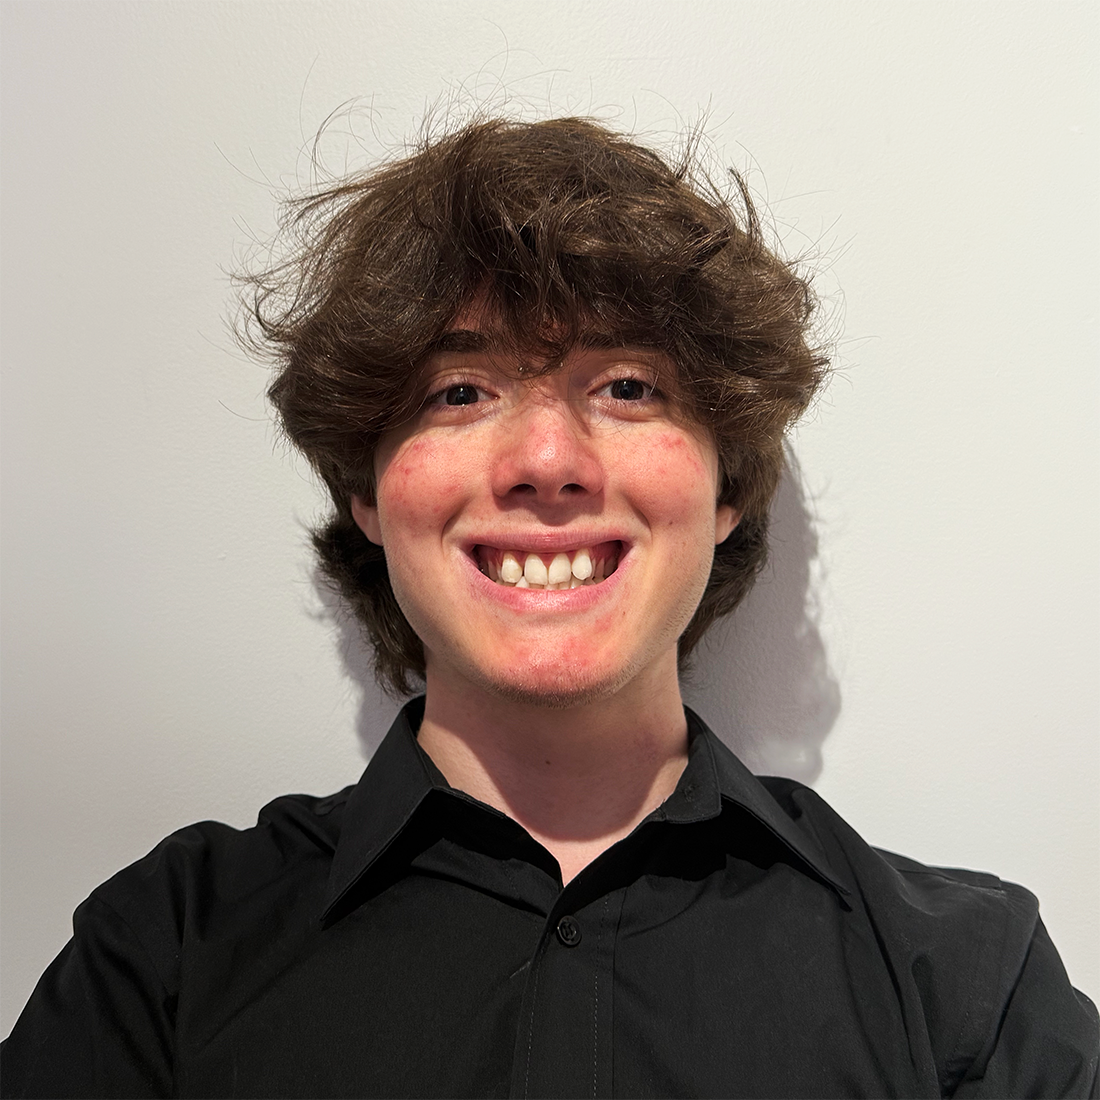
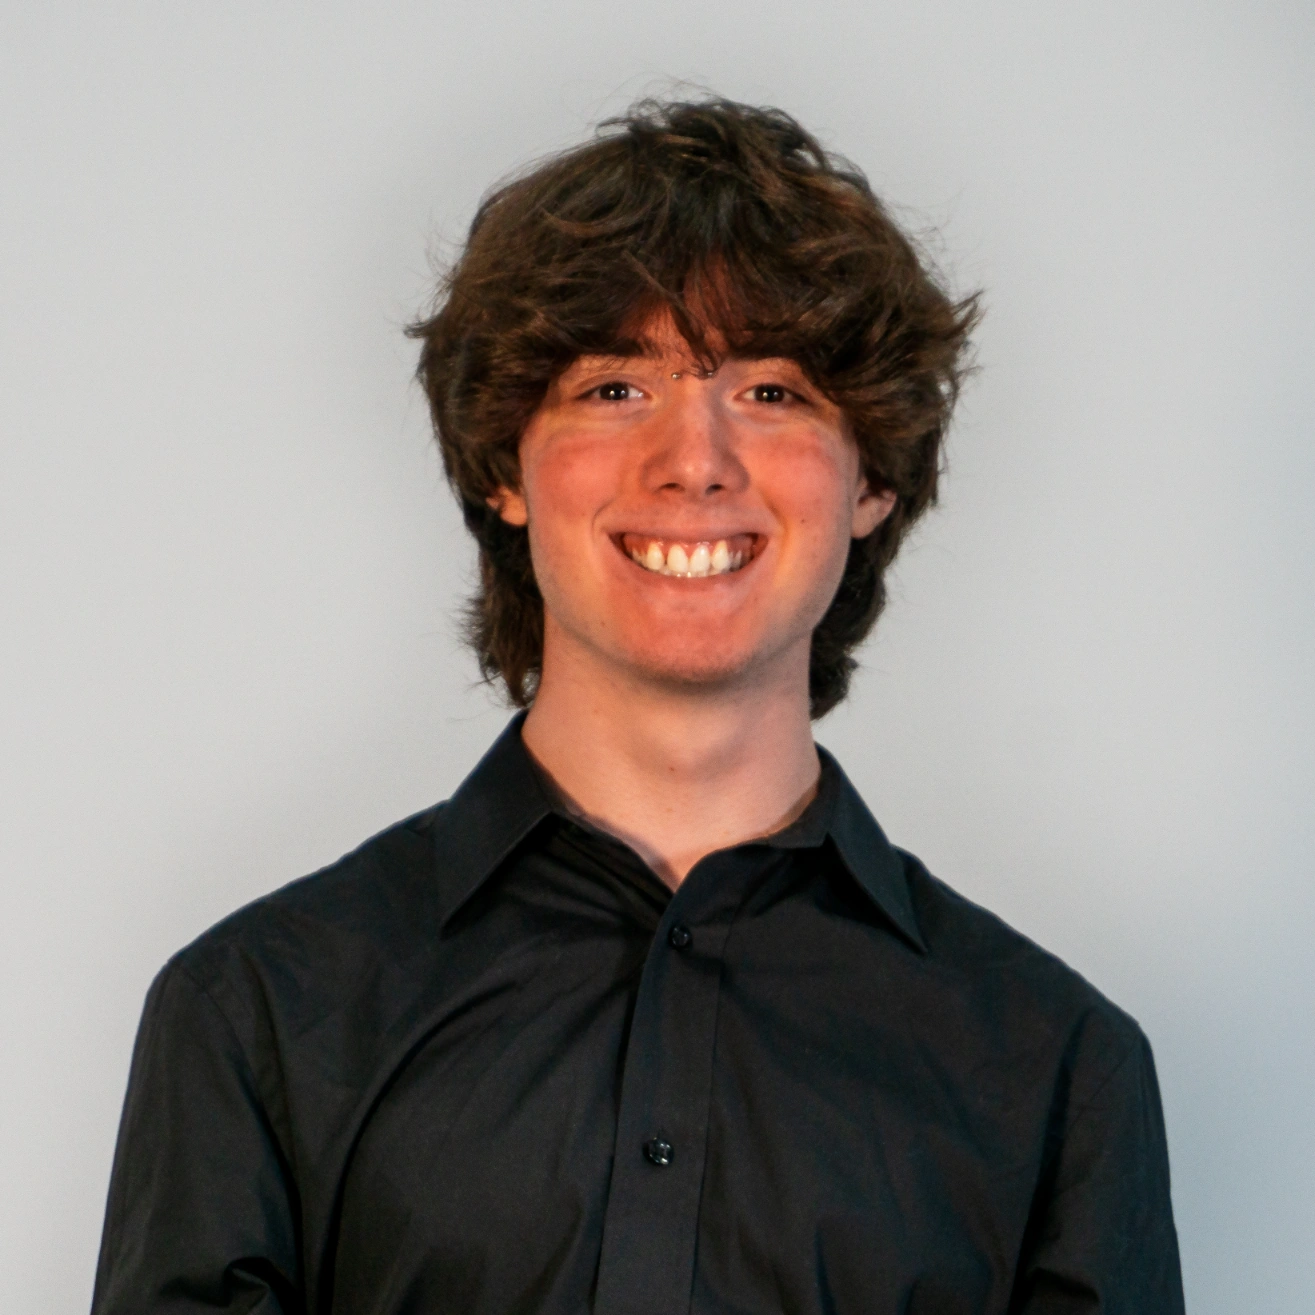
+ SEO, accessibilité, change photo apropos
- loading lazy sur les img qui sont pas visibles directement
- meta desc, bots
- correction desc à propos + photo upd
- objectif de carrière

diff --git a/index.html b/index.html
@@ -4,6 +4,9 @@
 <head>
     <meta charset="UTF-8" />
     <meta name="viewport" content="width=device-width, initial-scale=1.0" />
+    <meta name="description"
+        content="Ryan Dufault, passionné d'audiovisuel, spécialisé en montage vidéo, effets visuels et traitement du son. À la recherche d'une équipe créative en multimédia.">
+    <meta name="robots" content="index, follow">
     <title>Ryan Dufault</title>
     <link rel="icon" type="image/x-icon" href="/assets/favicon.svg">
     <link rel="stylesheet" href="/styles/styles.css" />
@@ -79,7 +82,8 @@
                 <!-- ==============================  1 PROJET  ====================================== -->
                 <div class="projet" v-show="projetFiltre === 'Video' || projetFiltre === null">
                     <div class="projet-thumbnail-container">
-                        <img class="projet-thumbnail projetFleur" src="./assets/fleur/thumbnail.webp">
+                        <img class="projet-thumbnail projetFleur" src="./assets/fleur/thumbnail.webp"
+                            alt="Miniature du projet Fleur" loading="lazy">
                     </div>
                     <p class="projet-titre projetFleur">•Fleur</p>
                     <p class="projet-type">Type•Vidéo</p>
@@ -91,7 +95,8 @@
                 <!-- ==============================  2 PROJET  ====================================== -->
                 <div class="projet" v-show="projetFiltre === 'Video' || projetFiltre === null">
                     <div class="projet-thumbnail-container">
-                        <img class="projet-thumbnail projetBirden" src="./assets/birden/birden1.webp">
+                        <img class="projet-thumbnail projetBirden" src="./assets/birden/birden1.webp"
+                            alt="Miniature du projet Birden" loading="lazy">
                     </div>
                     <p class="projet-titre projetBirden">•Birden</p>
                     <p class="projet-type">Type•Vidéo</p>
@@ -102,7 +107,8 @@
                 <!-- ==============================  3 PROJET  ====================================== -->
                 <div class="projet" v-show="projetFiltre === 'Video' || projetFiltre === null">
                     <div class="projet-thumbnail-container">
-                        <img class="projet-thumbnail projetLecorps" src="./assets/lecorps/lecorps1.webp">
+                        <img class="projet-thumbnail projetLecorps" src="./assets/lecorps/lecorps1.webp"
+                            alt="Miniature du projet Le Corps" loading="lazy">
                     </div>
                     <p class="projet-titre projetLecorps">•Le Corps</p>
                     <p class="projet-type">Type•Vidéo</p>
@@ -115,7 +121,8 @@
                 <div class="projet" v-show="projetFiltre === 'Web' || projetFiltre === null">
                     <div class="projet-thumbnail-container">
                         <img class="projet-thumbnail projetMaisonhantee"
-                            src="./assets/maisonhantee/maisonhanteethumbnail.webp">
+                            src="./assets/maisonhantee/maisonhanteethumbnail.webp"
+                            alt="Miniature du projet Maison Hantée" loading="lazy">
                     </div>
                     <p class="projet-titre projetMaisonhantee">•Maison Hantée</p>
                     <p class="projet-type">Type•Web</p>
@@ -127,7 +134,8 @@
                 <div class="projet" v-show="projetFiltre === 'Design' || projetFiltre === null">
                     <div class="projet-thumbnail-container">
                         <img class="projet-thumbnail projetAutoportrait"
-                            src="./assets/autoportrait/autoportraitthumbnail.webp">
+                            src="./assets/autoportrait/autoportraitthumbnail.webp"
+                            alt="Miniature du projet Autoportrait" loading="lazy">
                     </div>
                     <p class="projet-titre projetAutoportrait">•Autoportrait</p>
                     <p class="projet-type">Type•Design</p>
@@ -138,7 +146,8 @@
                 <!-- ==============================  6 PROJET  ====================================== -->
                 <div class="projet" v-show="projetFiltre === 'Design' || projetFiltre === null">
                     <div class="projet-thumbnail-container projetIncisive">
-                        <img class="projet-thumbnail" src="./assets/incisive/incisivethumbnail.webp">
+                        <img class="projet-thumbnail" src="./assets/incisive/incisivethumbnail.webp"
+                            alt="Miniature du projet Incisive" loading="lazy">
                     </div>
                     <p class="projet-titre projetIncisive">•Incisive</p>
                     <p class="projet-type">Type•Design Graphique</p>
@@ -166,8 +175,8 @@
                 <img src="./assets/logiciels/figma.webp" alt="Figma / Design graphique"
                     title="Figma / Design graphique"> <img src="./assets/logiciels/reaper.webp" alt="Reaper / Audio"
                     title="Reaper / Audio">
-                <img src="./assets/logiciels/fl.webp" alt="FL Studio / Audio" title="FL Studio / Audio"> <img
-                    src="./assets/logiciels/cubase.webp" alt="Cubase / Audio" title="Cubase / Audio">
+                <img src="./assets/logiciels/fl.webp" alt="FL Studio / Audio" title="FL Studio / Audio">
+                <img src="./assets/logiciels/cubase.webp" alt="Cubase / Audio" title="Cubase / Audio">
                 <img src="./assets/logiciels/ps.webp" alt="Adobe Photoshop / Design graphique"
                     title="Adobe Photoshop / Design graphique"> <img src="./assets/logiciels/ae.webp"
                     alt="Adobe After Effects / Vidéo" title="Adobe After Effects / Vidéo">
@@ -196,7 +205,8 @@
             <div class="apropos-grid">
                 <div class="apropos">
                     <div class="apropos-photo-container">
-                        <img class="apropos-photo" src="./assets/apropos.webp">
+                        <img class="apropos-photo" src="./assets/apropos.webp" alt="Photo de Ryan Dufault"
+                            loading="lazy">
                     </div>
                     <p class="coordonnees">Basé à St-Eustache, QC<br>
                         438-379-0330<br>
@@ -204,8 +214,10 @@
                     <p class="coordonnees2">Au plaisir de travailler avec vous :)</p>
                     <p class="description">Allo!<br>Moi c'est Ryan, finissant en Techniques d'intégration
                         multimédia au Collège Montmorency. Je suis passionné par l'audiovisuel, particulièrement
-                        au montage vidéo, aux effets visuels et au traitement du son. Je cherche présentement à me joindre à une équipe créative
-                        dans le domaine du multimédia.</p>
+                        le montage vidéo, les effets visuels et le traitement du son. Je cherche présentement à me
+                        joindre à une équipe créative
+                        dans le domaine du multimédia.<br><br>Je souhaite occuper un poste de monteur vidéo dans le
+                        secteur audiovisuel où je pourrai valoriser mon expertise en postproduction d'image et son.</p>
                     <div class="apropos-svg-container">
                         <svg viewBox="0 0 444 154" fill="none" xmlns="http://www.w3.org/2000/svg" class="apropos-svg">
                             <path

diff --git a/projets/fleur.html b/projets/fleur.html
@@ -76,7 +76,7 @@
     <section class="galerie-wrapper">
         <div class="image1">
             <img src="../assets/fleur/fleur1.webp" @click="selectImg('../assets/fleur/fleur1.webp')"
-                alt="Miniature du projet Fleur">
+                alt="Miniature du projet Fleur" loading="lazy">
             <!-- au clic, call la méthode qui récup source de l'img -->
         </div>
         <div class="overlay" :class="{ active: image }" @click="closeOverlay">
@@ -85,11 +85,11 @@
         </div>
         <div class="image2">
             <img src="../assets/fleur/fleur2.webp" @click="selectImg('../assets/fleur/fleur2.webp')"
-                alt="Image statique du projet Fleur">
+                alt="Image statique du projet Fleur" loading="lazy">
         </div>
         <div class="image3456">
             <img class="image3456-1" src="../assets/fleur/fleur3.webp" @click="selectImg('../assets/fleur/fleur3.webp')"
-                alt="Image statique du projet Fleur">
+                alt="Image statique du projet Fleur" loading="lazy">
             <video class="video1" autoplay loop muted playsinline aria-hidden="true" loading="lazy"
                 poster="../assets/fleur/fleur4.webp" @click="selectImg('../assets/fleur/fleur4.webp')"
                 alt="Court extrait vidéo du projet Fleur">
@@ -101,25 +101,28 @@
                 <source src="../assets/fleur/fleur2.webm" type="video/webm">
             </video>
             <img class="image3456-4" src="../assets/fleur/fleur6.webp" @click="selectImg('../assets/fleur/fleur6.webp')"
-                alt="Image statique du projet Fleur">
+                alt="Image statique du projet Fleur" loading="lazy">
         </div>
         <section class="processus-container">
             <h3>Processus de création</h3>
             <div class="etape1">
-                <p >1ère étape : Modélisation & animation</p>
-                <p>Génération d'herbe avec les pinceaux Maya, création des pétales du pissenlit avec XGen, <br>animation de vent sur l'ensemble de la scène réalisée avec une déformation de vague (wave),<br> texturation avec du bruit (noise) et des dégradés</p>
+                <p>1ère étape : Modélisation & animation</p>
+                <p>Génération d'herbe avec les pinceaux Maya, création des pétales du pissenlit avec XGen, <br>animation
+                    de vent sur l'ensemble de la scène réalisée avec une déformation de vague (wave),<br> texturation
+                    avec du bruit (noise) et des dégradés</p>
                 <img src="../assets/fleur/dm1.webp" @click="selectImg('../assets/fleur/dm1.webp')"
-                alt="Image du processus de création, étape modélisation">
+                    alt="Image du processus de création, étape modélisation">
                 <img src="../assets/fleur/dm2.webp" @click="selectImg('../assets/fleur/dm2.webp')"
-                alt="Image du processus de création, étape modélisation">
+                    alt="Image du processus de création, étape modélisation">
             </div>
             <div class="etape2">
                 <p>2ème étape : Audio</p>
-                <p>Utilisation de synthétiseurs.<br> Effets de réverbérations, écho, égalisation, manipulation stéréo (+ mastering)</p>
+                <p>Utilisation de synthétiseurs.<br> Effets de réverbérations, écho, égalisation, manipulation stéréo (+
+                    mastering)</p>
                 <img src="../assets/fleur/dm3.webp" @click="selectImg('../assets/fleur/dm3.webp')"
-                alt="Image du processus de création, étape audio">
+                    alt="Image du processus de création, étape audio">
                 <img src="../assets/fleur/dm4.webp" @click="selectImg('../assets/fleur/dm4.webp')"
-                alt="Image du processus de création, étape audio">
+                    alt="Image du processus de création, étape audio">
             </div>
             <div class="etape3">
                 <p>3ème étape : Post-production</p>
@@ -130,9 +133,9 @@
                     - Glow (pour les lucioles)<br>
                     - Tracking (pour le soleil)<br>
                     - Encodage en Apple ProRes 4444 Rec.709 2.4</p>
-                    <img src="../assets/fleur/dm5.webp" @click="selectImg('../assets/fleur/dm5.webp')"
+                <img src="../assets/fleur/dm5.webp" @click="selectImg('../assets/fleur/dm5.webp')"
                     alt="Image du processus de création, étape audio">
-                    <img src="../assets/fleur/dm6.webp" @click="selectImg('../assets/fleur/dm6.webp')"
+                <img src="../assets/fleur/dm6.webp" @click="selectImg('../assets/fleur/dm6.webp')"
                     alt="Image du processus de création, étape audio">
             </div>
         </section>

diff --git a/projets/maison_hantee.html b/projets/maison_hantee.html
@@ -72,8 +72,9 @@
   <div class="spacing"></div>
   <section class="galerie-wrapper">
     <div class="image1">
-      <img src="../assets/maisonhantee/maisonhantee1.webp" @click="selectImg('../assets/maisonhantee/maisonhantee1.webp')"
-        alt="Image statique du projet Maison Hantée">
+      <img src="../assets/maisonhantee/maisonhantee1.webp"
+        @click="selectImg('../assets/maisonhantee/maisonhantee1.webp')" alt="Image statique du projet Maison Hantée"
+        loading="lazy">
       <!-- au clic, call la méthode qui récup source de l'img -->
     </div>
     <div class="overlay" :class="{ active: image }" @click="closeOverlay">
@@ -81,12 +82,14 @@
       <img :src="image"> <!-- affiche image sélectionnée -->
     </div>
     <div class="image2">
-      <img src="../assets/maisonhantee/maisonhantee2.webp" @click="selectImg('../assets/maisonhantee/maisonhantee2.webp')"
-        alt="Image statique du projet Maison Hantée">
+      <img src="../assets/maisonhantee/maisonhantee2.webp"
+        @click="selectImg('../assets/maisonhantee/maisonhantee2.webp')" alt="Image statique du projet Maison Hantée"
+        loading="lazy">
     </div>
     <div class="image3456">
       <img class="image3456-1" src="../assets/maisonhantee/maisonhantee3.webp"
-        alt="Image statique du projet Maison Hantée" @click="selectImg('../assets/maisonhantee/maisonhantee3.webp')">
+        alt="Image statique du projet Maison Hantée" @click="selectImg('../assets/maisonhantee/maisonhantee3.webp')"
+        loading="lazy">
       <video class="video1" autoplay loop muted playsinline aria-hidden="true" loading="lazy"
         poster="../assets/maisonhantee/maisonhantee4.png" @click="selectImg('../assets/maisonhantee/maisonhantee4.png')"
         alt="Court extrait vidéo du projet Maison Hantée">
@@ -98,7 +101,8 @@
         <source src="../assets/maisonhantee/maisonhantee5.webm" type="video/webm">
       </video>
       <img class="image3456-4" src="../assets/maisonhantee/maisonhantee6.webp"
-        alt="Image statique du projet Maison Hantée" @click="selectImg('../assets/maisonhantee/maisonhantee6.webp')">
+        alt="Image statique du projet Maison Hantée" @click="selectImg('../assets/maisonhantee/maisonhantee6.webp')"
+        loading="lazy">
     </div>
   </section>
   <div class="spacing"></div>

diff --git a/projets/incisive.html b/projets/incisive.html
@@ -71,7 +71,8 @@
   <div class="spacing"></div>
   <section class="galerie-wrapper">
     <div class="image1">
-      <img src="../assets/incisive/incisive1.webp" @click="selectImg('../assets/incisive/incisive1.webp')">
+      <img src="../assets/incisive/incisive1.webp" @click="selectImg('../assets/incisive/incisive1.webp')"
+        loading="lazy">
       <!-- au clic, call la méthode qui récup source de l'img -->
     </div>
     <div class="overlay" :class="{ active: image }" @click="closeOverlay">
@@ -79,17 +80,18 @@
       <img :src="image"> <!-- affiche image sélectionnée -->
     </div>
     <div class="image2">
-      <img src="../assets/incisive/incisive2.webp" @click="selectImg('../assets/incisive/incisive2.webp')">
+      <img src="../assets/incisive/incisive2.webp" @click="selectImg('../assets/incisive/incisive2.webp')"
+        loading="lazy">
     </div>
     <div class="image3456">
       <img class="image3456-1" src="../assets/incisive/incisive3.webp" alt="Image tirée du projet Incisive"
-        @click="selectImg('../assets/incisive/incisive3.webp')">
-      <img class="video1" src="../assets/incisive/incisive4.webp" @click="selectImg('../assets/incisive/incisive4.webp')"
-        alt="Image tirée du projet Incisive">
-      <img class="video2" src="../assets/incisive/incisive5.webp" @click="selectImg('../assets/incisive/incisive5.webp')"
-        alt="Image tirée du projet Incisive">
+        @click="selectImg('../assets/incisive/incisive3.webp')" loading="lazy">
+      <img class="video1" src="../assets/incisive/incisive4.webp"
+        @click="selectImg('../assets/incisive/incisive4.webp')" alt="Image tirée du projet Incisive" loading="lazy">
+      <img class="video2" src="../assets/incisive/incisive5.webp"
+        @click="selectImg('../assets/incisive/incisive5.webp')" alt="Image tirée du projet Incisive" loading="lazy">
       <img class="image3456-4" src="../assets/incisive/incisive6.webp" alt="Image tirée du projet Incisive"
-        @click="selectImg('../assets/incisive/incisive6.webp')">
+        @click="selectImg('../assets/incisive/incisive6.webp')" loading="lazy">
     </div>
   </section>
   <div class="spacing"></div>

diff --git a/projets/le_corps.html b/projets/le_corps.html
@@ -76,7 +76,7 @@
   <section class="galerie-wrapper">
     <div class="image1">
       <img src="../assets/lecorps/lecorps1.webp" @click="selectImg('../assets/lecorps/lecorps1.webp')"
-        alt="Image statique du projet Le Corps">
+        alt="Image statique du projet Le Corps" loading="lazy">
       <!-- au clic, call la méthode qui récup source de l'img -->
     </div>
     <div class="overlay" :class="{ active: image }" @click="closeOverlay">
@@ -85,11 +85,11 @@
     </div>
     <div class="image2">
       <img src="../assets/lecorps/lecorps2.webp" @click="selectImg('../assets/lecorps/lecorps2.webp')"
-        alt="Image statique du projet Le Corps">
+        alt="Image statique du projet Le Corps" loading="lazy">
     </div>
     <div class="image3456">
-      <img class="image3456-1" src="../assets/lecorps/lecorps3.webp" @click="selectImg('../assets/lecorps/lecorps3.webp')"
-        alt="Image statique du projet Le Corps">
+      <img class="image3456-1" src="../assets/lecorps/lecorps3.webp"
+        @click="selectImg('../assets/lecorps/lecorps3.webp')" alt="Image statique du projet Le Corps" loading="lazy">
       <video class="video1" autoplay loop muted playsinline aria-hidden="true" loading="lazy"
         poster="../assets/lecorps/lecorps4.webp" @click="selectImg('../assets/lecorps/lecorps4.webp')"
         alt="Court extrait vidéo du projet Le Corps">
@@ -100,8 +100,8 @@
         alt="Court extrait vidéo du projet Le Corps">
         <source src="../assets/lecorps/lecorps5.webm" type="video/webm">
       </video>
-      <img class="image3456-4" src="../assets/lecorps/lecorps6.webp" @click="selectImg('../assets/lecorps/lecorps6.webp')"
-        alt="Image statique du projet Le Corps">
+      <img class="image3456-4" src="../assets/lecorps/lecorps6.webp"
+        @click="selectImg('../assets/lecorps/lecorps6.webp')" alt="Image statique du projet Le Corps" loading="lazy">
     </div>
   </section>
   <div class="spacing"></div>

diff --git a/projets/autoportrait.html b/projets/autoportrait.html
@@ -71,7 +71,7 @@
   <section class="galerie-wrapper">
     <div class="image1">
       <img src="../assets/autoportrait/autoportrait1.webp" alt="Autoportrait numéro 1"
-        @click="selectImg('../assets/autoportrait/autoportrait1.webp')">
+        @click="selectImg('../assets/autoportrait/autoportrait1.webp')" loading="lazy">
       <!-- au clic, call la méthode qui récup source de l'img -->
     </div>
     <div class="overlay" :class="{ active: image }" @click="closeOverlay">
@@ -80,17 +80,17 @@
     </div>
     <div class="image2">
       <img src="../assets/autoportrait/autoportrait2.webp" alt="Autoportrait numéro 2"
-        @click="selectImg('../assets/autoportrait/autoportrait2.webp')">
+        @click="selectImg('../assets/autoportrait/autoportrait2.webp')" loading="lazy">
     </div>
     <div class="image3456">
       <img class="image3456-1" src="../assets/autoportrait/autoportrait3.webp" alt="Autoportrait numéro 3"
-        @click="selectImg('../assets/autoportrait/autoportrait3.webp')">
+        @click="selectImg('../assets/autoportrait/autoportrait3.webp')" loading="lazy">
       <img class="video1" src="../assets/autoportrait/autoportrait4.webp" alt="Autoportrait numéro 4"
-        @click="selectImg('../assets/autoportrait/autoportrait4.webp')">
+        @click="selectImg('../assets/autoportrait/autoportrait4.webp')" loading="lazy">
       <img class="video2" src="../assets/autoportrait/autoportrait5.webp" alt="Autoportrait numéro 5"
-        @click="selectImg('../assets/autoportrait/autoportrait5.webp')">
+        @click="selectImg('../assets/autoportrait/autoportrait5.webp')" loading="lazy">
       <img class="image3456-4" src="../assets/autoportrait/autoportrait6.webp" alt="Autoportrait numéro 6"
-        @click="selectImg('../assets/autoportrait/autoportrait6.webp')">
+        @click="selectImg('../assets/autoportrait/autoportrait6.webp')" loading="lazy">
     </div>
   </section>
   <div class="spacing"></div>

diff --git a/projets/birden.html b/projets/birden.html
@@ -78,7 +78,7 @@
     <section class="galerie-wrapper">
         <div class="image1">
             <img src="../assets/birden/birden1.webp" @click="selectImg('../assets/birden/birden1.webp')"
-                alt="Miniature du projet Birden">
+                alt="Miniature du projet Birden" loading="lazy">
             <!-- au clic, call la méthode qui récup source de l'img -->
         </div>
         <div class="overlay" :class="{ active: image }" @click="closeOverlay">
@@ -87,11 +87,11 @@
         </div>
         <div class="image2">
             <img src="../assets/birden/birden2.webp" @click="selectImg('../assets/birden/birden2.webp')"
-                alt="Image statique du projet Birden">
+                alt="Image statique du projet Birden" loading="lazy">
         </div>
         <div class="image3456">
             <img class="image3456-1" src="../assets/birden/birden3.webp" alt="Image statique du projet Birden"
-                @click="selectImg('../assets/birden/birden3.webp')">
+                @click="selectImg('../assets/birden/birden3.webp')" loading="lazy">
             <video class="video1" autoplay loop muted playsinline aria-hidden="true" loading="lazy"
                 poster="../assets/birden/birden4.webp" @click="selectImg('../assets/birden/birden4.webp')"
                 alt="Court extrait vidéo du projet Birden">
@@ -103,7 +103,7 @@
                 <source src="../assets/birden/birden5.webm" type="video/webm">
             </video>
             <img class="image3456-4" src="../assets/birden/birden6.webp" alt="Image statique du projet Birden"
-                @click="selectImg('../assets/birden/birden6.webp')">
+                @click="selectImg('../assets/birden/birden6.webp')" loading="lazy">
         </div>
     </section>
     <div class="spacing"></div>
